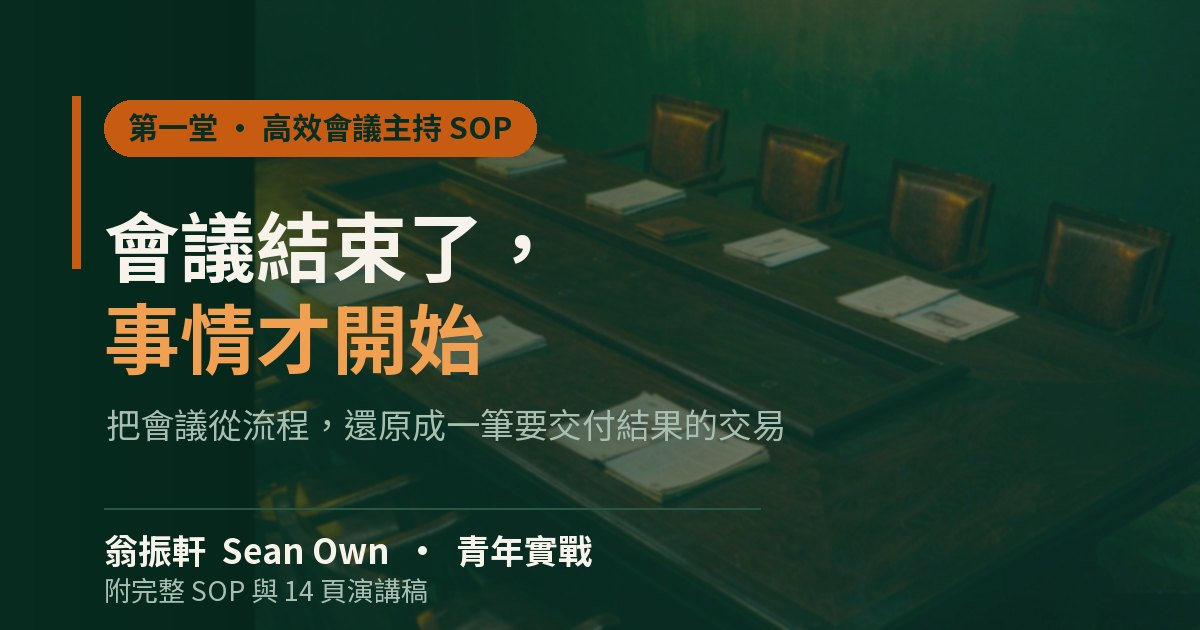
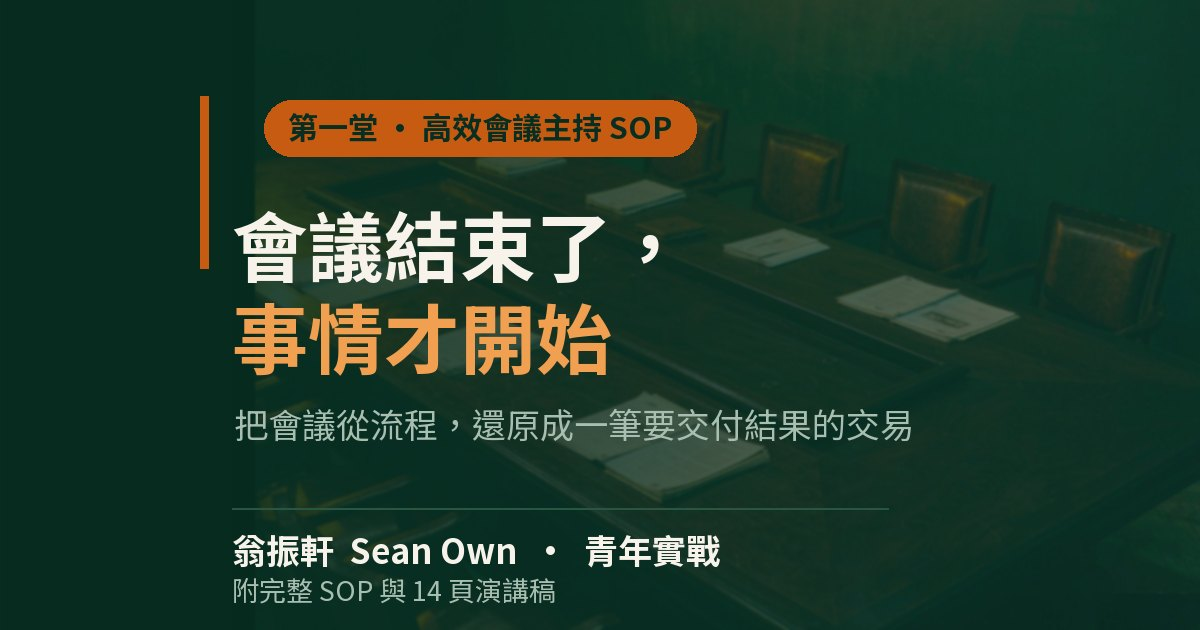
fix(series): 輯頁縮圖改用 posts.json 的 images[0]，與首頁統一
同一篇文章此前在首頁與輯頁是兩張不同的圖：首頁「更多專欄」已換成
121-cover.jpg，輯頁時間軸卻仍硬寫 assets/og/<slug>.jpg。

- build_articles.py 新增 tl_img()：優先取 images[0]，沒有才回退 og 圖
  （外站 URL 一律略過，避免回退失效）
- _gen_cover_121.py 重排 121 封面：主標題/標籤從 x=104 移到 x=232，
  落在 132x88 中央裁切的安全區內，輯頁縮圖不再切掉「第一堂」標籤
- 界線：只改「取哪張圖」，不改「怎麼裁」。object-position 屬版面風格，
  各輯不同（電影輯是 poster-card 直式 contain），不可全站強壓
- 連帶讓 4 個專輯頁共 22 篇的縮圖來源統一（與og 圖內容同源，視覺無變）

diff --git a/series/life-essays/index.html b/series/life-essays/index.html
@@ -106,7 +106,7 @@ a{color:var(--blue);text-decoration:none}
 <div class="intro"><div class="i-lab">專輯 序</div><p>日子不只是被填滿，更該被讀出滋味。這一輯收錄隨筆、節氣、書摘與行走——從一句話的反思，到一場江西七日、一封潮汕僑批；從付航的父親智慧，到《思考，快與慢》的認知偏誤，再到辜朝明「資產負債表衰退」的宏觀啟示。</p><p>慢下來，才看得見。</p></div>
 
 <div class="sec-lab">按時間倒序 · 最新在前</div>
-<ul class="timeline"><li class="tl-item"><a class="tl-card" href="https://seanown.org/article/recent-reflections-twelve-quotes-sketch/"><div class="tl-img"><img src="../../assets/og/recent-reflections-twelve-quotes-sketch.jpg?v=20261001k" alt="近期反思：十二句話，十二幅手繪 封面" loading="lazy"></div><div class="tl-body"><div class="tl-top"><span class="tl-no">10 / 10</span><span class="tl-date">2026.09.09</span><span class="tl-loc">· 澳門</span></div><h2>近期反思：十二句話，十二幅手繪</h2><p>把近期的閱讀、行走與觀察，濃縮成十二句話。每一句配一幅手繪線稿：左邊是畫，右邊是原話、背景與認知啟示。不追求體系完整…</p></div><div class="tl-arr">›</div></a></li><li class="tl-item"><a class="tl-card" href="https://seanown.org/article/thinking-fast-and-slow-reading-notes/"><div class="tl-img"><img src="../../assets/og/thinking-fast-and-slow-reading-notes.jpg?v=20261001k" alt="《思考，快與慢》精讀筆記 封面" loading="lazy"></div><div class="tl-body"><div class="tl-top"><span class="tl-no">09 / 10</span><span class="tl-date">2026.09.07</span><span class="tl-loc">· 澳門</span></div><h2>《思考，快與慢》精讀筆記</h2><p>丹尼爾·卡尼曼（Daniel Kahneman, 1934–2024）——諾貝爾經濟學獎得主的代表作，行為經濟學奠基…</p></div><div class="tl-arr">›</div></a></li><li class="tl-item"><a class="tl-card" href="https://seanown.org/article/qixi-festival-original-meaning/"><div class="tl-img"><img src="../../assets/og/qixi-festival-original-meaning.jpg?v=20261001k" alt="七夕：它原本不是情人節✨ 封面" loading="lazy"></div><div class="tl-body"><div class="tl-top"><span class="tl-no">08 / 10</span><span class="tl-date">2026.08.19</span><span class="tl-loc">· 澳門</span></div><h2>七夕：它原本不是情人節✨</h2><p>很多人把七夕當作中國情人節，其實根源是上古星宿崇拜。真實天文：銀河兩側，牛郎星與織女星，實際相距16光年，宇宙之中永…</p></div><div class="tl-arr">›</div></a></li><li class="tl-item"><a class="tl-card" href="https://seanown.org/article/richard-koo-balance-sheet-recession/"><div class="tl-img"><img src="../../assets/og/richard-koo-balance-sheet-recession.jpg?v=20261001k" alt="讀懂辜朝明「資產負債表衰退」📊 封面" loading="lazy"></div><div class="tl-body"><div class="tl-top"><span class="tl-no">07 / 10</span><span class="tl-date">2026.08.17</span><span class="tl-loc">· 澳門</span></div><h2>讀懂辜朝明「資產負債表衰退」📊</h2><p>為什麼降息、印錢，有時候救不了經濟？🔹核心3個邏輯1⃣泡沫破裂之後：股價房價資產大幅…</p></div><div class="tl-arr">›</div></a></li><li class="tl-item"><a class="tl-card" href="https://seanown.org/article/two-thoughts-set-out-and-palm/"><div class="tl-img"><img src="../../assets/og/two-thoughts-set-out-and-palm.jpg?v=20261001k" alt="兩個念頭：出發與手相 封面" loading="lazy"></div><div class="tl-body"><div class="tl-top"><span class="tl-no">06 / 10</span><span class="tl-date">2026.08.10</span><span class="tl-loc">· 澳門</span></div><h2>兩個念頭：出發與手相</h2><p>兩則短念頭，一篇記下來。 無名指長過食指｜手相啟示民間手相說法：男看左手，女看右手，若是無名指長過食指，一生會遇上三…</p></div><div class="tl-arr">›</div></a></li><li class="tl-item"><a class="tl-card" href="https://seanown.org/article/august-eighth-fathers-day-origin/"><div class="tl-img"><img src="../../assets/og/august-eighth-fathers-day-origin.jpg?v=20261001k" alt="八八·爸爸節｜一段烽火歲月誕生的本土節日 封面" loading="lazy"></div><div class="tl-body"><div class="tl-top"><span class="tl-no">05 / 10</span><span class="tl-date">2026.08.08</span><span class="tl-loc">· 澳門</span></div><h2>八八·爸爸節｜一段烽火歲月誕生的本土節日</h2><p>1945抗戰末年，上海還在佔領之下，滿城飽經戰亂。梅蘭芳、顏惠慶等十位上海社…</p></div><div class="tl-arr">›</div></a></li><li class="tl-item"><a class="tl-card" href="https://seanown.org/article/liqiu-start-of-autumn/"><div class="tl-img"><img src="../../assets/og/liqiu-start-of-autumn.jpg?v=20261001k" alt="什麼！？今晚立秋！？（8月7日 19:42） 封面" loading="lazy"></div><div class="tl-body"><div class="tl-top"><span class="tl-no">04 / 10</span><span class="tl-date">2026.08.07</span><span class="tl-loc">· 澳門</span></div><h2>什麼！？今晚立秋！？（8月7日 19:42）</h2><p>我還正準備感受盛夏，立秋就悄悄來了，暑氣依舊熾熱，秋意卻已登場。📜小故事…</p></div><div class="tl-arr">›</div></a></li><li class="tl-item"><a class="tl-card" href="https://seanown.org/article/fuhang-a-fathers-wisdom/"><div class="tl-img"><img src="../../assets/og/fuhang-a-fathers-wisdom.jpg?v=20261001k" alt="付航：一位父親最高級的智慧 封面" loading="lazy"></div><div class="tl-body"><div class="tl-top"><span class="tl-no">03 / 10</span><span class="tl-date">2026.08.05</span><span class="tl-loc">· 澳門</span></div><h2>付航：一位父親最高級的智慧</h2><p>看付航拿下《喜劇之王》總冠軍，最打動我的不只是舞台上的表演，而是他父親的兩句通透智慧的話。…</p></div><div class="tl-arr">›</div></a></li><li class="tl-item"><a class="tl-card" href="https://seanown.org/article/jiangxi-seven-days/"><div class="tl-img"><img src="../../assets/og/jiangxi-seven-days.jpg?v=20261001k" alt="江西七日：從井岡山到滕王閣 封面" loading="lazy"></div><div class="tl-body"><div class="tl-top"><span class="tl-no">02 / 10</span><span class="tl-date">2026.07.29</span><span class="tl-loc">· 吉安市</span></div><h2>江西七日：從井岡山到滕王閣</h2><p>七月下旬，贛北到贛西南，四天一千二百公里。原本只是商務行程中間的空檔，走完才發現這幾站串成一條線。七篇併一篇，按走的…</p></div><div class="tl-arr">›</div></a></li><li class="tl-item"><a class="tl-card" href="https://seanown.org/article/chaoshan-journey-letters-home/"><div class="tl-img"><img src="../../assets/og/chaoshan-journey-letters-home.jpg?v=20261001k" alt="潮汕行：一封僑批的兩端 封面" loading="lazy"></div><div class="tl-body"><div class="tl-top"><span class="tl-no">01 / 10</span><span class="tl-date">2026.07.23</span><span class="tl-loc">· 汕頭市</span></div><h2>潮汕行：一封僑批的兩端</h2><p>七月二十二到二十三日，揭陽、汕頭。三篇併一篇：實業、基建、鄉愁，三個角度看同一個地方。 07.22　揭陽實業傳奇：康…</p></div><div class="tl-arr">›</div></a></li></ul>
+<ul class="timeline"><li class="tl-item"><a class="tl-card" href="https://seanown.org/article/recent-reflections-twelve-quotes-sketch/"><div class="tl-img"><img src="../../assets/og/recent-reflections-twelve-quotes-sketch.jpg?v=20261001k" alt="近期反思：十二句話，十二幅手繪 封面" loading="lazy"></div><div class="tl-body"><div class="tl-top"><span class="tl-no">10 / 10</span><span class="tl-date">2026.09.09</span><span class="tl-loc">· 澳門</span></div><h2>近期反思：十二句話，十二幅手繪</h2><p>把近期的閱讀、行走與觀察，濃縮成十二句話。每一句配一幅手繪線稿：左邊是畫，右邊是原話、背景與認知啟示。不追求體系完整…</p></div><div class="tl-arr">›</div></a></li><li class="tl-item"><a class="tl-card" href="https://seanown.org/article/thinking-fast-and-slow-reading-notes/"><div class="tl-img"><img src="../../assets/og/thinking-fast-and-slow-reading-notes.jpg?v=20261001k" alt="《思考，快與慢》精讀筆記 封面" loading="lazy"></div><div class="tl-body"><div class="tl-top"><span class="tl-no">09 / 10</span><span class="tl-date">2026.09.07</span><span class="tl-loc">· 澳門</span></div><h2>《思考，快與慢》精讀筆記</h2><p>丹尼爾·卡尼曼（Daniel Kahneman, 1934–2024）——諾貝爾經濟學獎得主的代表作，行為經濟學奠基…</p></div><div class="tl-arr">›</div></a></li><li class="tl-item"><a class="tl-card" href="https://seanown.org/article/qixi-festival-original-meaning/"><div class="tl-img"><img src="../../assets/images/posts/04-1.jpg" alt="七夕：它原本不是情人節✨ 封面" loading="lazy"></div><div class="tl-body"><div class="tl-top"><span class="tl-no">08 / 10</span><span class="tl-date">2026.08.19</span><span class="tl-loc">· 澳門</span></div><h2>七夕：它原本不是情人節✨</h2><p>很多人把七夕當作中國情人節，其實根源是上古星宿崇拜。真實天文：銀河兩側，牛郎星與織女星，實際相距16光年，宇宙之中永…</p></div><div class="tl-arr">›</div></a></li><li class="tl-item"><a class="tl-card" href="https://seanown.org/article/richard-koo-balance-sheet-recession/"><div class="tl-img"><img src="../../assets/images/posts/05-1.jpg" alt="讀懂辜朝明「資產負債表衰退」📊 封面" loading="lazy"></div><div class="tl-body"><div class="tl-top"><span class="tl-no">07 / 10</span><span class="tl-date">2026.08.17</span><span class="tl-loc">· 澳門</span></div><h2>讀懂辜朝明「資產負債表衰退」📊</h2><p>為什麼降息、印錢，有時候救不了經濟？🔹核心3個邏輯1⃣泡沫破裂之後：股價房價資產大幅…</p></div><div class="tl-arr">›</div></a></li><li class="tl-item"><a class="tl-card" href="https://seanown.org/article/two-thoughts-set-out-and-palm/"><div class="tl-img"><img src="../../assets/images/posts/09-1.jpg" alt="兩個念頭：出發與手相 封面" loading="lazy"></div><div class="tl-body"><div class="tl-top"><span class="tl-no">06 / 10</span><span class="tl-date">2026.08.10</span><span class="tl-loc">· 澳門</span></div><h2>兩個念頭：出發與手相</h2><p>兩則短念頭，一篇記下來。 無名指長過食指｜手相啟示民間手相說法：男看左手，女看右手，若是無名指長過食指，一生會遇上三…</p></div><div class="tl-arr">›</div></a></li><li class="tl-item"><a class="tl-card" href="https://seanown.org/article/august-eighth-fathers-day-origin/"><div class="tl-img"><img src="../../assets/images/posts/07-1.jpg" alt="八八·爸爸節｜一段烽火歲月誕生的本土節日 封面" loading="lazy"></div><div class="tl-body"><div class="tl-top"><span class="tl-no">05 / 10</span><span class="tl-date">2026.08.08</span><span class="tl-loc">· 澳門</span></div><h2>八八·爸爸節｜一段烽火歲月誕生的本土節日</h2><p>1945抗戰末年，上海還在佔領之下，滿城飽經戰亂。梅蘭芳、顏惠慶等十位上海社…</p></div><div class="tl-arr">›</div></a></li><li class="tl-item"><a class="tl-card" href="https://seanown.org/article/liqiu-start-of-autumn/"><div class="tl-img"><img src="../../assets/images/posts/08-1.jpg" alt="什麼！？今晚立秋！？（8月7日 19:42） 封面" loading="lazy"></div><div class="tl-body"><div class="tl-top"><span class="tl-no">04 / 10</span><span class="tl-date">2026.08.07</span><span class="tl-loc">· 澳門</span></div><h2>什麼！？今晚立秋！？（8月7日 19:42）</h2><p>我還正準備感受盛夏，立秋就悄悄來了，暑氣依舊熾熱，秋意卻已登場。📜小故事…</p></div><div class="tl-arr">›</div></a></li><li class="tl-item"><a class="tl-card" href="https://seanown.org/article/fuhang-a-fathers-wisdom/"><div class="tl-img"><img src="../../assets/images/posts/11-1.jpg" alt="付航：一位父親最高級的智慧 封面" loading="lazy"></div><div class="tl-body"><div class="tl-top"><span class="tl-no">03 / 10</span><span class="tl-date">2026.08.05</span><span class="tl-loc">· 澳門</span></div><h2>付航：一位父親最高級的智慧</h2><p>看付航拿下《喜劇之王》總冠軍，最打動我的不只是舞台上的表演，而是他父親的兩句通透智慧的話。…</p></div><div class="tl-arr">›</div></a></li><li class="tl-item"><a class="tl-card" href="https://seanown.org/article/jiangxi-seven-days/"><div class="tl-img"><img src="../../assets/images/posts/13-1.jpg" alt="江西七日：從井岡山到滕王閣 封面" loading="lazy"></div><div class="tl-body"><div class="tl-top"><span class="tl-no">02 / 10</span><span class="tl-date">2026.07.29</span><span class="tl-loc">· 吉安市</span></div><h2>江西七日：從井岡山到滕王閣</h2><p>七月下旬，贛北到贛西南，四天一千二百公里。原本只是商務行程中間的空檔，走完才發現這幾站串成一條線。七篇併一篇，按走的…</p></div><div class="tl-arr">›</div></a></li><li class="tl-item"><a class="tl-card" href="https://seanown.org/article/chaoshan-journey-letters-home/"><div class="tl-img"><img src="../../assets/images/posts/22-1.jpg" alt="潮汕行：一封僑批的兩端 封面" loading="lazy"></div><div class="tl-body"><div class="tl-top"><span class="tl-no">01 / 10</span><span class="tl-date">2026.07.23</span><span class="tl-loc">· 汕頭市</span></div><h2>潮汕行：一封僑批的兩端</h2><p>七月二十二到二十三日，揭陽、汕頭。三篇併一篇：實業、基建、鄉愁，三個角度看同一個地方。 07.22　揭陽實業傳奇：康…</p></div><div class="tl-arr">›</div></a></li></ul>
 </div>
 
 <div class="sec-lab" style="max-width:1080px;margin:0 auto;padding:34px 24px 0">其他專輯</div><div class="other-ser"><a class="os-card" href="https://seanown.org/series/macau-reader/"><div class="os-n">澳門解碼</div><div class="os-d">4 篇 · 2026</div></a><a class="os-card" href="https://seanown.org/series/cultural-ip-global/"><div class="os-n">文化出海</div><div class="os-d">4 篇 · 2026</div></a><a class="os-card" href="https://seanown.org/series/youth-crossover/"><div class="os-n">青年實戰</div><div class="os-d">7 篇 · 2026</div></a><a class="os-card" href="https://seanown.org/series/macau-film/"><div class="os-n">澳門電影</div><div class="os-d">83 篇 · 連載中</div></a></div>

diff --git a/series/youth-crossover/index.html b/series/youth-crossover/index.html
@@ -106,7 +106,7 @@ a{color:var(--blue);text-decoration:none}
 <div class="intro"><div class="i-lab">專輯 序</div><p>選擇比努力重要。從 UC Berkeley 到澳門，從貿易到電商、再到 AI，三次跨界、三次轉折，背後是一套可遷移的底層能力。</p><p>這一輯，把那些年踩過的坑、想通的理，濃縮成給年輕人的幾堂實戰課：青年企業家的跨界思維、三次創業轉折的選擇方法論，以及納瓦爾「找到天生該吃這碗飯的領域」。</p></div>
 
 <div class="sec-lab">按時間倒序 · 最新在前</div>
-<ul class="timeline"><li class="tl-item"><a class="tl-card" href="https://seanown.org/article/meeting-ends-things-begin/"><div class="tl-img"><img src="../../assets/og/meeting-ends-things-begin.jpg?v=20261001k" alt="會議結束了，事情才開始 封面" loading="lazy"></div><div class="tl-body"><div class="tl-top"><span class="tl-no">07 / 07</span><span class="tl-date">2026.10.08</span><span class="tl-loc">· 澳門</span></div><h2>會議結束了，事情才開始</h2><p>我們談效率，談的幾乎都是機器與軟件——生產線、倉儲、演算法、數據中台，卻很少有人把「開會」放進成本表裡算一算。但在一…</p></div><div class="tl-arr">›</div></a></li><li class="tl-item"><a class="tl-card" href="https://seanown.org/article/naval-three-steps-find-your-calling/"><div class="tl-img"><img src="../../assets/og/naval-three-steps-find-your-calling.jpg?v=20261001k" alt="納瓦爾：三步找到「天生該吃這碗飯」的領域 封面" loading="lazy"></div><div class="tl-body"><div class="tl-top"><span class="tl-no">06 / 07</span><span class="tl-date">2026.09.12</span><span class="tl-loc">· 澳門</span></div><h2>納瓦爾：三步找到「天生該吃這碗飯」的領域</h2><p>在「成為自己」這件事上，沒有人能比你做得更好。—— 納瓦爾 如果你還在迷茫該做什麼、往哪走，別急著模仿別人。納瓦爾用…</p></div><div class="tl-arr">›</div></a></li><li class="tl-item"><a class="tl-card" href="https://seanown.org/article/three-choices-define-your-life/"><div class="tl-img"><img src="../../assets/og/three-choices-define-your-life.jpg?v=20261001k" alt="三個選擇，定義你的一生 封面" loading="lazy"></div><div class="tl-body"><div class="tl-top"><span class="tl-no">05 / 07</span><span class="tl-date">2026.08.23</span><span class="tl-loc">· 澳門</span></div><h2>三個選擇，定義你的一生</h2><p>年輕人做對3個決定，足以拉開人生差距矽谷納瓦爾：住哪裡、做什麼、跟誰在一起，這三個決定，幾乎直…</p></div><div class="tl-arr">›</div></a></li><li class="tl-item"><a class="tl-card" href="https://seanown.org/article/rent-hike-still-profitable-yet-closed/"><div class="tl-img"><img src="../../assets/og/rent-hike-still-profitable-yet-closed.jpg?v=20261001k" alt="年賺上億，房租漲1600萬仍可盈利，卻直接停業 封面" loading="lazy"></div><div class="tl-body"><div class="tl-top"><span class="tl-no">04 / 07</span><span class="tl-date">2026.08.22</span><span class="tl-loc">· 澳門</span></div><h2>年賺上億，房租漲1600萬仍可盈利，卻直接停業</h2><p>（胖東來金句）當年新鄉大胖店，是于東來團隊一步步把冷清的商圈做旺，門店…</p></div><div class="tl-arr">›</div></a></li><li class="tl-item"><a class="tl-card" href="https://seanown.org/article/kaipu-group-reunion/"><div class="tl-img"><img src="../../assets/og/kaipu-group-reunion.jpg?v=20261001k" alt="拜訪凱普集團，一場意料之外的重逢 封面" loading="lazy"></div><div class="tl-body"><div class="tl-top"><span class="tl-no">03 / 07</span><span class="tl-date">2026.07.24</span><span class="tl-loc">· 澳門</span></div><h2>拜訪凱普集團，一場意料之外的重逢</h2><p>巧遇舊識余小望先生，現任凱普康和醫院行政副院長。凱普生物是HPV領域中國先行者，A股…</p></div><div class="tl-arr">›</div></a></li><li class="tl-item"><a class="tl-card" href="https://seanown.org/article/young-entrepreneur-cross-boundary-thinking/"><div class="tl-img"><img src="../../assets/og/young-entrepreneur-cross-boundary-thinking.jpg?v=20261001k" alt="青年企業家的跨界思維 封面" loading="lazy"></div><div class="tl-body"><div class="tl-top"><span class="tl-no">02 / 07</span><span class="tl-date">2026.02.18</span><span class="tl-loc">· 澳門</span></div><h2>青年企業家的跨界思維</h2><p>跨界的本質很多人以為跨界是「什麼都做」，其實真正的跨界是底層能力的遷移。無論是食品、科技還是文化，核心能力都是： 資…</p></div><div class="tl-arr">›</div></a></li><li class="tl-item"><a class="tl-card" href="https://seanown.org/article/choices-over-effort-three-turning-points/"><div class="tl-img"><img src="../../assets/og/choices-over-effort-three-turning-points.jpg?v=20261001k" alt="選擇比努力重要：我的三次創業轉折 封面" loading="lazy"></div><div class="tl-body"><div class="tl-top"><span class="tl-no">01 / 07</span><span class="tl-date">2026.01.10</span><span class="tl-loc">· 澳門</span></div><h2>選擇比努力重要：我的三次創業轉折</h2><p>第一次選擇：回大陸2001年從UC Berkeley畢業，放棄美國的工作機會回大陸。當時很多人不理解，但我看到了中國…</p></div><div class="tl-arr">›</div></a></li></ul>
+<ul class="timeline"><li class="tl-item"><a class="tl-card" href="https://seanown.org/article/meeting-ends-things-begin/"><div class="tl-img"><img src="../../assets/images/posts/121-cover.jpg" alt="會議結束了，事情才開始 封面" loading="lazy"></div><div class="tl-body"><div class="tl-top"><span class="tl-no">07 / 07</span><span class="tl-date">2026.10.08</span><span class="tl-loc">· 澳門</span></div><h2>會議結束了，事情才開始</h2><p>我們談效率，談的幾乎都是機器與軟件——生產線、倉儲、演算法、數據中台，卻很少有人把「開會」放進成本表裡算一算。但在一…</p></div><div class="tl-arr">›</div></a></li><li class="tl-item"><a class="tl-card" href="https://seanown.org/article/naval-three-steps-find-your-calling/"><div class="tl-img"><img src="../../assets/images/posts/37-1.jpg" alt="納瓦爾：三步找到「天生該吃這碗飯」的領域 封面" loading="lazy"></div><div class="tl-body"><div class="tl-top"><span class="tl-no">06 / 07</span><span class="tl-date">2026.09.12</span><span class="tl-loc">· 澳門</span></div><h2>納瓦爾：三步找到「天生該吃這碗飯」的領域</h2><p>在「成為自己」這件事上，沒有人能比你做得更好。—— 納瓦爾 如果你還在迷茫該做什麼、往哪走，別急著模仿別人。納瓦爾用…</p></div><div class="tl-arr">›</div></a></li><li class="tl-item"><a class="tl-card" href="https://seanown.org/article/three-choices-define-your-life/"><div class="tl-img"><img src="../../assets/images/posts/01-1.jpg" alt="三個選擇，定義你的一生 封面" loading="lazy"></div><div class="tl-body"><div class="tl-top"><span class="tl-no">05 / 07</span><span class="tl-date">2026.08.23</span><span class="tl-loc">· 澳門</span></div><h2>三個選擇，定義你的一生</h2><p>年輕人做對3個決定，足以拉開人生差距矽谷納瓦爾：住哪裡、做什麼、跟誰在一起，這三個決定，幾乎直…</p></div><div class="tl-arr">›</div></a></li><li class="tl-item"><a class="tl-card" href="https://seanown.org/article/rent-hike-still-profitable-yet-closed/"><div class="tl-img"><img src="../../assets/images/posts/02-1.jpg" alt="年賺上億，房租漲1600萬仍可盈利，卻直接停業 封面" loading="lazy"></div><div class="tl-body"><div class="tl-top"><span class="tl-no">04 / 07</span><span class="tl-date">2026.08.22</span><span class="tl-loc">· 澳門</span></div><h2>年賺上億，房租漲1600萬仍可盈利，卻直接停業</h2><p>（胖東來金句）當年新鄉大胖店，是于東來團隊一步步把冷清的商圈做旺，門店…</p></div><div class="tl-arr">›</div></a></li><li class="tl-item"><a class="tl-card" href="https://seanown.org/article/kaipu-group-reunion/"><div class="tl-img"><img src="../../assets/images/posts/20-1.jpg" alt="拜訪凱普集團，一場意料之外的重逢 封面" loading="lazy"></div><div class="tl-body"><div class="tl-top"><span class="tl-no">03 / 07</span><span class="tl-date">2026.07.24</span><span class="tl-loc">· 澳門</span></div><h2>拜訪凱普集團，一場意料之外的重逢</h2><p>巧遇舊識余小望先生，現任凱普康和醫院行政副院長。凱普生物是HPV領域中國先行者，A股…</p></div><div class="tl-arr">›</div></a></li><li class="tl-item"><a class="tl-card" href="https://seanown.org/article/young-entrepreneur-cross-boundary-thinking/"><div class="tl-img"><img src="../../assets/images/posts/29-1.jpg" alt="青年企業家的跨界思維 封面" loading="lazy"></div><div class="tl-body"><div class="tl-top"><span class="tl-no">02 / 07</span><span class="tl-date">2026.02.18</span><span class="tl-loc">· 澳門</span></div><h2>青年企業家的跨界思維</h2><p>跨界的本質很多人以為跨界是「什麼都做」，其實真正的跨界是底層能力的遷移。無論是食品、科技還是文化，核心能力都是： 資…</p></div><div class="tl-arr">›</div></a></li><li class="tl-item"><a class="tl-card" href="https://seanown.org/article/choices-over-effort-three-turning-points/"><div class="tl-img"><img src="../../assets/images/posts/30-1.jpg" alt="選擇比努力重要：我的三次創業轉折 封面" loading="lazy"></div><div class="tl-body"><div class="tl-top"><span class="tl-no">01 / 07</span><span class="tl-date">2026.01.10</span><span class="tl-loc">· 澳門</span></div><h2>選擇比努力重要：我的三次創業轉折</h2><p>第一次選擇：回大陸2001年從UC Berkeley畢業，放棄美國的工作機會回大陸。當時很多人不理解，但我看到了中國…</p></div><div class="tl-arr">›</div></a></li></ul>
 </div>
 
 <div class="sec-lab" style="max-width:1080px;margin:0 auto;padding:34px 24px 0">其他專輯</div><div class="other-ser"><a class="os-card" href="https://seanown.org/series/macau-reader/"><div class="os-n">澳門解碼</div><div class="os-d">4 篇 · 2026</div></a><a class="os-card" href="https://seanown.org/series/cultural-ip-global/"><div class="os-n">文化出海</div><div class="os-d">4 篇 · 2026</div></a><a class="os-card" href="https://seanown.org/series/life-essays/"><div class="os-n">生活隨筆</div><div class="os-d">10 篇 · 2026</div></a><a class="os-card" href="https://seanown.org/series/macau-film/"><div class="os-n">澳門電影</div><div class="os-d">83 篇 · 連載中</div></a></div>

diff --git a/series/macau-reader/index.html b/series/macau-reader/index.html
@@ -106,7 +106,7 @@ a{color:var(--blue);text-decoration:none}
 <div class="intro"><div class="i-lab">專輯 序</div><p>澳門這座城，常被一個數字定義——GDP、賭收、遊客量。但真正的澳門，藏在五年規劃的字裡行間、藏在公開賬本的支出邏輯裡、藏在 HDI 那把不同於 GDP 的尺子裡。</p><p>這一輯，我們換幾把尺，重新把這座城讀一遍：從三五規劃的產業轉身，到五年決算的民生底蘊，再到人類發展指數與「1+4」數字樞紐的機遇。</p></div>
 
 <div class="sec-lab">按時間倒序 · 最新在前</div>
-<ul class="timeline"><li class="tl-item"><a class="tl-card" href="https://seanown.org/article/macau-budget-2020-2024-analysis/"><div class="tl-img"><img src="../../assets/og/macau-budget-2020-2024-analysis.jpg?v=20261001k" alt="澳門財政五年決算透視：公開賬本背後的支出邏輯與產業啟示 封面" loading="lazy"></div><div class="tl-body"><div class="tl-top"><span class="tl-no">04 / 04</span><span class="tl-date">2026.09.08</span><span class="tl-loc">· 澳門</span></div><h2>澳門財政五年決算透視：公開賬本背後的支出邏輯與產業啟示</h2><p>澳門特區政府 2020–2024 年一般綜合預算決算近日完整公開，涵蓋九大功能分類、四十五條明細紀錄的「公開賬本」，…</p></div><div class="tl-arr">›</div></a></li><li class="tl-item"><a class="tl-card" href="https://seanown.org/article/hdi-2025-human-development-report/"><div class="tl-img"><img src="../../assets/og/hdi-2025-human-development-report.jpg?v=20261001k" alt="📊 GDP 之外：用 HDI 重新丈量發展 封面" loading="lazy"></div><div class="tl-body"><div class="tl-top"><span class="tl-no">03 / 04</span><span class="tl-date">2026.09.07</span><span class="tl-loc">· 澳門</span></div><h2>📊 GDP 之外：用 HDI 重新丈量發展</h2><p>我們太習慣用一個數字丈量成敗——GDP。城市比總量，國家比增速，好像數字足夠大，一切問題就足夠小。但聯合國開發計劃署…</p></div><div class="tl-arr">›</div></a></li><li class="tl-item"><a class="tl-card" href="https://seanown.org/article/macau-five-year-plan-diversification/"><div class="tl-img"><img src="../../assets/og/macau-five-year-plan-diversification.jpg?v=20261001k" alt="從一業獨大到百業共生：澳門三五規劃，真正改變的從來不是數字 封面" loading="lazy"></div><div class="tl-body"><div class="tl-top"><span class="tl-no">02 / 04</span><span class="tl-date">2026.09.03</span><span class="tl-loc">· 澳門</span></div><h2>從一業獨大到百業共生：澳門三五規劃，真正改變的從來不是數字</h2><p>中國人做事，向來習慣立下一個五年之約。自 1953 年第一個五年計劃啟動，這套以五年為時間維度的治理邏輯，我們已經踏…</p></div><div class="tl-arr">›</div></a></li><li class="tl-item"><a class="tl-card" href="https://seanown.org/article/macau-1-plus-4-digital-hub/"><div class="tl-img"><img src="../../assets/og/macau-1-plus-4-digital-hub.jpg?v=20261001k" alt="澳門「1+4」佈局下的數字樞紐機遇 封面" loading="lazy"></div><div class="tl-body"><div class="tl-top"><span class="tl-no">01 / 04</span><span class="tl-date">2026.04.10</span><span class="tl-loc">· 澳門 · 灣區論壇</span></div><h2>澳門「1+4」佈局下的數字樞紐機遇</h2><p>「1+4」產業佈局澳門特區政府提出的「1+4」產業適度多元發展策略： 1：世界旅遊休閒中心 4：高新技術產業、現代金…</p></div><div class="tl-arr">›</div></a></li></ul>
+<ul class="timeline"><li class="tl-item"><a class="tl-card" href="https://seanown.org/article/macau-budget-2020-2024-analysis/"><div class="tl-img"><img src="../../assets/images/posts/34-1.jpg" alt="澳門財政五年決算透視：公開賬本背後的支出邏輯與產業啟示 封面" loading="lazy"></div><div class="tl-body"><div class="tl-top"><span class="tl-no">04 / 04</span><span class="tl-date">2026.09.08</span><span class="tl-loc">· 澳門</span></div><h2>澳門財政五年決算透視：公開賬本背後的支出邏輯與產業啟示</h2><p>澳門特區政府 2020–2024 年一般綜合預算決算近日完整公開，涵蓋九大功能分類、四十五條明細紀錄的「公開賬本」，…</p></div><div class="tl-arr">›</div></a></li><li class="tl-item"><a class="tl-card" href="https://seanown.org/article/hdi-2025-human-development-report/"><div class="tl-img"><img src="../../assets/images/posts/33-1.jpg" alt="📊 GDP 之外：用 HDI 重新丈量發展 封面" loading="lazy"></div><div class="tl-body"><div class="tl-top"><span class="tl-no">03 / 04</span><span class="tl-date">2026.09.07</span><span class="tl-loc">· 澳門</span></div><h2>📊 GDP 之外：用 HDI 重新丈量發展</h2><p>我們太習慣用一個數字丈量成敗——GDP。城市比總量，國家比增速，好像數字足夠大，一切問題就足夠小。但聯合國開發計劃署…</p></div><div class="tl-arr">›</div></a></li><li class="tl-item"><a class="tl-card" href="https://seanown.org/article/macau-five-year-plan-diversification/"><div class="tl-img"><img src="../../assets/images/posts/31-1.jpg" alt="從一業獨大到百業共生：澳門三五規劃，真正改變的從來不是數字 封面" loading="lazy"></div><div class="tl-body"><div class="tl-top"><span class="tl-no">02 / 04</span><span class="tl-date">2026.09.03</span><span class="tl-loc">· 澳門</span></div><h2>從一業獨大到百業共生：澳門三五規劃，真正改變的從來不是數字</h2><p>中國人做事，向來習慣立下一個五年之約。自 1953 年第一個五年計劃啟動，這套以五年為時間維度的治理邏輯，我們已經踏…</p></div><div class="tl-arr">›</div></a></li><li class="tl-item"><a class="tl-card" href="https://seanown.org/article/macau-1-plus-4-digital-hub/"><div class="tl-img"><img src="../../assets/images/posts/27-1.jpg" alt="澳門「1+4」佈局下的數字樞紐機遇 封面" loading="lazy"></div><div class="tl-body"><div class="tl-top"><span class="tl-no">01 / 04</span><span class="tl-date">2026.04.10</span><span class="tl-loc">· 澳門 · 灣區論壇</span></div><h2>澳門「1+4」佈局下的數字樞紐機遇</h2><p>「1+4」產業佈局澳門特區政府提出的「1+4」產業適度多元發展策略： 1：世界旅遊休閒中心 4：高新技術產業、現代金…</p></div><div class="tl-arr">›</div></a></li></ul>
 </div>
 
 <div class="sec-lab" style="max-width:1080px;margin:0 auto;padding:34px 24px 0">其他專輯</div><div class="other-ser"><a class="os-card" href="https://seanown.org/series/cultural-ip-global/"><div class="os-n">文化出海</div><div class="os-d">4 篇 · 2026</div></a><a class="os-card" href="https://seanown.org/series/youth-crossover/"><div class="os-n">青年實戰</div><div class="os-d">7 篇 · 2026</div></a><a class="os-card" href="https://seanown.org/series/life-essays/"><div class="os-n">生活隨筆</div><div class="os-d">10 篇 · 2026</div></a><a class="os-card" href="https://seanown.org/series/macau-film/"><div class="os-n">澳門電影</div><div class="os-d">83 篇 · 連載中</div></a></div>

diff --git a/series/cultural-ip-global/index.html b/series/cultural-ip-global/index.html
@@ -106,7 +106,7 @@ a{color:var(--blue);text-decoration:none}
 <div class="intro"><div class="i-lab">專輯 序</div><p>過去幾百年，世界的審美與文化敘事由西方定義。屬於中華文化的大航海時代已經來臨——我們用 AI、用絲綢、用 IP 的語言，把千年美學與當代產業接起來，對接全球視野。</p><p>這一輯，談文化如何變成資產、資產如何走向世界：從中華文化 IP 的全球化路徑，到澳門「1+4」數字樞紐、AI 跨境服務與 AI 內容營銷的躍遷。</p></div>
 
 <div class="sec-lab">按時間倒序 · 最新在前</div>
-<ul class="timeline"><li class="tl-item"><a class="tl-card" href="https://seanown.org/article/wealth-leverage-macau/"><div class="tl-img"><img src="../../assets/og/wealth-leverage-macau.jpg?v=20261001k" alt="財富與時代槓桿：新時代澳門文化商業的佈局思維 封面" loading="lazy"></div><div class="tl-body"><div class="tl-top"><span class="tl-no">04 / 04</span><span class="tl-date">2026.09.11</span><span class="tl-loc">· 澳門</span></div><h2>財富與時代槓桿：新時代澳門文化商業的佈局思維</h2><p>長期以來，多數人對於賺錢、經營與創業的理解，大多停留在「付出勞動，換取酬勞」的單一邏輯。但隨著產業迭代、國際格局重組…</p></div><div class="tl-arr">›</div></a></li><li class="tl-item"><a class="tl-card" href="https://seanown.org/article/macau-ai-cross-border-services/"><div class="tl-img"><img src="../../assets/og/macau-ai-cross-border-services.jpg?v=20261001k" alt="AI跨境服務的澳門方案 封面" loading="lazy"></div><div class="tl-body"><div class="tl-top"><span class="tl-no">03 / 04</span><span class="tl-date">2026.06.15</span><span class="tl-loc">· 澳門 · 龍遊集團總部</span></div><h2>AI跨境服務的澳門方案</h2><p>核心挑戰中國企業出海面臨的最大痛點不是技術，而是數據跨境合規。各國數據主權法規日益嚴格，傳統單一伺服器架構無法滿足合…</p></div><div class="tl-arr">›</div></a></li><li class="tl-item"><a class="tl-card" href="https://seanown.org/article/ai-content-marketing-ctr-jump/"><div class="tl-img"><img src="../../assets/og/ai-content-marketing-ctr-jump.jpg?v=20261001k" alt="從CTR 22.7%到80%：AI內容營銷的躍遷 封面" loading="lazy"></div><div class="tl-body"><div class="tl-top"><span class="tl-no">02 / 04</span><span class="tl-date">2026.05.20</span><span class="tl-loc">· 澳門</span></div><h2>從CTR 22.7%到80%：AI內容營銷的躍遷</h2><p>傳統內容營銷的瓶頸傳統跨境電商內容製作週期長、成本高、語種覆蓋有限。一個產品上綫8個市場，需要至少8套內容素材，耗時…</p></div><div class="tl-arr">›</div></a></li><li class="tl-item"><a class="tl-card" href="https://seanown.org/article/chinese-cultural-ip-globalization/"><div class="tl-img"><img src="../../assets/og/chinese-cultural-ip-globalization.jpg?v=20261001k" alt="中華文化IP的全球化路徑 封面" loading="lazy"></div><div class="tl-body"><div class="tl-top"><span class="tl-no">01 / 04</span><span class="tl-date">2026.03.05</span><span class="tl-loc">· 澳門</span></div><h2>中華文化IP的全球化路徑</h2><p>文化IP的價值中華文化是寶貴資源，但長期以來「有資源、無產業」的問題突出。如何把文化資源轉化為文化資產，再轉化為文化…</p></div><div class="tl-arr">›</div></a></li></ul>
+<ul class="timeline"><li class="tl-item"><a class="tl-card" href="https://seanown.org/article/wealth-leverage-macau/"><div class="tl-img"><img src="../../assets/images/posts/36-1.jpg" alt="財富與時代槓桿：新時代澳門文化商業的佈局思維 封面" loading="lazy"></div><div class="tl-body"><div class="tl-top"><span class="tl-no">04 / 04</span><span class="tl-date">2026.09.11</span><span class="tl-loc">· 澳門</span></div><h2>財富與時代槓桿：新時代澳門文化商業的佈局思維</h2><p>長期以來，多數人對於賺錢、經營與創業的理解，大多停留在「付出勞動，換取酬勞」的單一邏輯。但隨著產業迭代、國際格局重組…</p></div><div class="tl-arr">›</div></a></li><li class="tl-item"><a class="tl-card" href="https://seanown.org/article/macau-ai-cross-border-services/"><div class="tl-img"><img src="../../assets/images/posts/25-1.jpg" alt="AI跨境服務的澳門方案 封面" loading="lazy"></div><div class="tl-body"><div class="tl-top"><span class="tl-no">03 / 04</span><span class="tl-date">2026.06.15</span><span class="tl-loc">· 澳門 · 龍遊集團總部</span></div><h2>AI跨境服務的澳門方案</h2><p>核心挑戰中國企業出海面臨的最大痛點不是技術，而是數據跨境合規。各國數據主權法規日益嚴格，傳統單一伺服器架構無法滿足合…</p></div><div class="tl-arr">›</div></a></li><li class="tl-item"><a class="tl-card" href="https://seanown.org/article/ai-content-marketing-ctr-jump/"><div class="tl-img"><img src="../../assets/images/posts/26-1.jpg" alt="從CTR 22.7%到80%：AI內容營銷的躍遷 封面" loading="lazy"></div><div class="tl-body"><div class="tl-top"><span class="tl-no">02 / 04</span><span class="tl-date">2026.05.20</span><span class="tl-loc">· 澳門</span></div><h2>從CTR 22.7%到80%：AI內容營銷的躍遷</h2><p>傳統內容營銷的瓶頸傳統跨境電商內容製作週期長、成本高、語種覆蓋有限。一個產品上綫8個市場，需要至少8套內容素材，耗時…</p></div><div class="tl-arr">›</div></a></li><li class="tl-item"><a class="tl-card" href="https://seanown.org/article/chinese-cultural-ip-globalization/"><div class="tl-img"><img src="../../assets/images/posts/28-1.jpg" alt="中華文化IP的全球化路徑 封面" loading="lazy"></div><div class="tl-body"><div class="tl-top"><span class="tl-no">01 / 04</span><span class="tl-date">2026.03.05</span><span class="tl-loc">· 澳門</span></div><h2>中華文化IP的全球化路徑</h2><p>文化IP的價值中華文化是寶貴資源，但長期以來「有資源、無產業」的問題突出。如何把文化資源轉化為文化資產，再轉化為文化…</p></div><div class="tl-arr">›</div></a></li></ul>
 </div>
 
 <div class="sec-lab" style="max-width:1080px;margin:0 auto;padding:34px 24px 0">其他專輯</div><div class="other-ser"><a class="os-card" href="https://seanown.org/series/macau-reader/"><div class="os-n">澳門解碼</div><div class="os-d">4 篇 · 2026</div></a><a class="os-card" href="https://seanown.org/series/youth-crossover/"><div class="os-n">青年實戰</div><div class="os-d">7 篇 · 2026</div></a><a class="os-card" href="https://seanown.org/series/life-essays/"><div class="os-n">生活隨筆</div><div class="os-d">10 篇 · 2026</div></a><a class="os-card" href="https://seanown.org/series/macau-film/"><div class="os-n">澳門電影</div><div class="os-d">83 篇 · 連載中</div></a></div>

diff --git a/tools/_gen_cover_121.py b/tools/_gen_cover_121.py
@@ -8,6 +8,13 @@
   Line 分享用的，卡片裡字會偏小。
 
 這裡專門排一版橫式：左側大標題、右側視覺，170px 高度下仍讀得清楚。
+
+🔴 版面重心必須留在「中央安全區」：
+這張圖會出現在兩種容器，裁切方式不同——
+  · 首頁「更多專欄」卡片 170px 高，object-fit:cover 中央裁切
+  · 輯頁時間軸 132×88，同樣中央裁切 → 只保留左右各約 45%~55%
+所以主標題與標籤都排在中間偏左（x=232 起），不可再推到 x=104，
+否則輯頁縮圖會把「第一堂」標籤與主標題左半切掉。
 """
 import os
 from PIL import Image, ImageDraw, ImageFont, ImageFilter
@@ -24,6 +31,10 @@ AMBER = (199, 91, 18)
 AMBER_L = (240, 160, 80)
 CREAM = (247, 243, 234)
 DIM = (168, 190, 176)
+
+# 中央安全區（1200×630 中央裁切後保留約 x=200~1000）
+X0 = 232          # 文字左起
+TAG_X = 264       # 標籤左起（在 X0 右側，讓 gold 豎線落在安全區邊緣）
 
 
 def font(size, bold=True):
@@ -59,38 +70,45 @@ def main():
     base.paste(photo, (0, 0))
 
     # 整體壓暗 + 左側加深（確保文字對比）
+    # 對比集中在 x≈232-890（中央安全區），讓左右兩側都能當純色底
     veil = Image.new('L', (W, 1))
     vd = ImageDraw.Draw(veil)
     for x in range(W):
-        r = x / (W - 1)
-        vd.point((x, 0), fill=int(30 + 195 * (1 - r) ** 1.5))  # 左側 225 → 右側 30
+        # 以 X0（232）為文字起點做分段：左側極暗、中段亮到 210、右側收回 60
+        if x < X0:
+            v = 232 - (x / max(X0, 1)) * 12
+        elif x < 900:
+            v = 210 - ((x - X0) / max(900 - X0, 1)) * 90
+        else:
+            v = 120 - ((x - 900) / max(W - 900, 1)) * 60
+        vd.point((x, 0), fill=int(max(20, min(240, v))))
     mask = veil.resize((W, H))
     base.paste(Image.new('RGB', (W, H), BG_DEEP), (0, 0), mask)
     d = ImageDraw.Draw(base)
 
-    # ---- 左側金色豎線 ----
-    d.rectangle([72, 96, 80, 268], fill=AMBER)
+    # ---- 左側金色豎線（落在中央安全區左緣）----
+    d.rectangle([X0 - 32, 96, X0 - 24, 268], fill=AMBER)
 
     # ---- 標籤 ----
     f_tag = font(30)
     tag = '第一堂 · 高效會議主持 SOP'
     tw = d.textlength(tag, font=f_tag)
-    d.rounded_rectangle([104, 100, 104 + tw + 48, 156], radius=28, fill=AMBER)
-    d.text((128, 109), tag, font=f_tag, fill=(7, 46, 33))
+    d.rounded_rectangle([TAG_X, 100, TAG_X + tw + 48, 156], radius=28, fill=AMBER)
+    d.text((TAG_X + 24, 109), tag, font=f_tag, fill=(7, 46, 33))
 
     # ---- 主標題（兩行）----
     f_t = font(76)
-    d.text((104, 200), '會議結束了，', font=f_t, fill=CREAM)
-    d.text((104, 292), '事情才開始', font=f_t, fill=AMBER_L)
+    d.text((X0, 200), '會議結束了，', font=f_t, fill=CREAM)
+    d.text((X0, 292), '事情才開始', font=f_t, fill=AMBER_L)
 
     # ---- 副標一行 ----
     f_s = font(34, False)
-    d.text((106, 404), '把會議從流程，還原成一筆要交付結果的交易', font=f_s, fill=DIM)
+    d.text((X0 + 2, 404), '把會議從流程，還原成一筆要交付結果的交易', font=f_s, fill=DIM)
 
     # ---- 底部作者列 ----
-    d.line([(104, H - 122), (760, H - 122)], fill=(40, 86, 66), width=2)
-    d.text((104, H - 100), '翁振軒  Sean Own  ·  青年實戰', font=font(34), fill=CREAM)
-    d.text((104, H - 56), '附完整 SOP 與 14 頁演講稿', font=font(27, False), fill=DIM)
+    d.line([(X0, H - 122), (X0 + 656, H - 122)], fill=(40, 86, 66), width=2)
+    d.text((X0, H - 100), '翁振軒  Sean Own  ·  青年實戰', font=font(34), fill=CREAM)
+    d.text((X0, H - 56), '附完整 SOP 與 14 頁演講稿', font=font(27, False), fill=DIM)
 
     os.makedirs(os.path.dirname(OUT), exist_ok=True)
     base.save(OUT, 'JPEG', quality=86, optimize=True, progressive=True)

diff --git a/tools/build_articles.py b/tools/build_articles.py
@@ -720,6 +720,33 @@ def build_movie_info(post, allposts):
     return slug, title
 
 
+def tl_img(p):
+    """輯頁時間軸的縮圖路徑（相對 series/<id>/ 根目錄）。
+
+    優先用 posts.json 的 images[0]——那才是這篇文章自己在各入口
+    （首頁「更多專欄」、文章頁、輯頁）統一的封面；
+    早期版本這裡硬寫 assets/og/<slug>.jpg，導致同一篇文章在首頁與
+    輯頁是兩張不同的圖（首頁已換新封面、輯頁還是舊的 og 圖）。
+    沒有 images 才回退 og 圖，保證行為與舊版一致。
+
+    🔴 界線：這裡只決定「取哪一張圖」，不管「怎麼裁」。
+    裁切規則屬於版面風格，各輯不同（電影輯是 poster-card 海報格，
+    直式contain；時間軸是 tl-img橫式 cover），不要用同一套 object-position
+    強壓全部輯頁——那會把其他輯的構圖一起改壞。
+    要讓某張封面在時間軸裡更好看，正解是重排封面圖本身的版面重心，
+    不是改全站裁切（見 tools/_gen_cover_121.py 的「中央安全區」註解）。
+    """
+    imgs = p.get('images') or []
+    if isinstance(imgs, str):
+        imgs = [imgs]
+    for src in imgs:
+        s = str(src or '').strip()
+        # 只接受站內相對路徑；外站URL 或空值一律略過，避免 og 回退失效
+        if s and not s.startswith(('http://', 'https://', '//', 'data:')):
+            return s.lstrip('./').lstrip('/')
+    return ''
+
+
 def build_series_page(s, posts, all_series):
     """產生單一輯頁 series/<id>/index.html"""
     sid = s['id']
@@ -772,7 +799,8 @@ def build_series_page(s, posts, all_series):
                 '%s'
                 '</div><h2>%s</h2><p>%s</p></div>'
                 '<div class="tl-arr">›</div></a></li>'
-            ) % (SITE, pslug, ov('../../assets/og/%s.jpg' % pslug), esc(p.get('title')), no, len(members),
+            ) % (SITE, pslug, ov('../../%s' % tl_img(p)) if tl_img(p) else
+                    ov('../../assets/og/%s.jpg' % pslug), esc(p.get('title')), no, len(members),
                  (p.get('date') or '').replace('-', '.'),
                  ('<span class="tl-loc">· %s</span>' % esc(loc)) if loc else '',
                  esc(ptitle), esc(plead))
